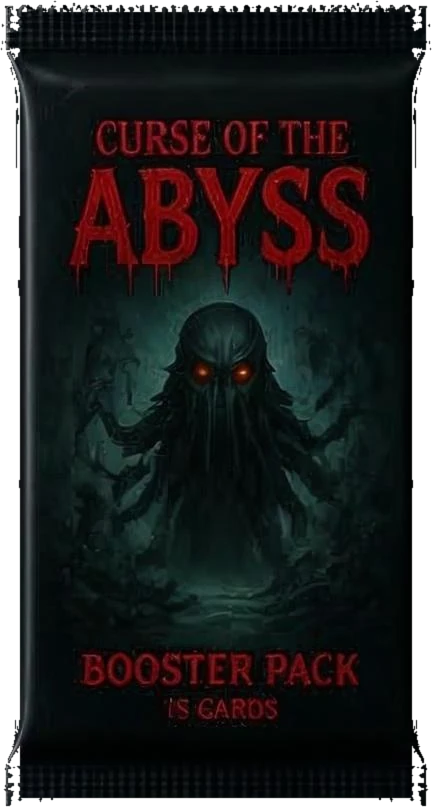
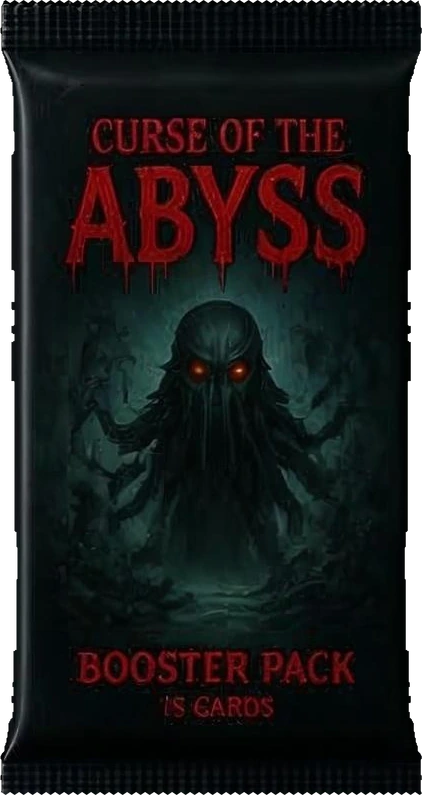
Booster pack art: precise cut-outs (measured edges mirrored across the pack axis, full crimped seals, anti-aliased mask)

diff --git a/src/data/patchNotes.ts b/src/data/patchNotes.ts
@@ -19,6 +19,21 @@ export interface PatchNote {
 
 export const PATCH_NOTES: PatchNote[] = [
   {
+    version: '0.15.1',
+    date: '2026-10-03',
+    title: 'Sharper booster packs',
+    summary: 'The booster pack artwork is cut out cleanly.',
+    sections: [
+      {
+        kind: 'fixed',
+        items: [
+          'Kingdoms at War, Fantasy Realms and Curse of the Abyss packs now have clean, straight edges and complete crimped seals at the top and bottom, without leftover dark background or ragged corners.',
+        ],
+      },
+    ],
+    commits: [],
+  },
+  {
     version: '0.15.0',
     date: '2026-10-03',
     title: 'Accounts and cloud save',

diff --git a/src/i18n/cs/data/patchNotes.ts b/src/i18n/cs/data/patchNotes.ts
@@ -1,6 +1,11 @@
 import type { PatchNotesOverlay } from '../../overlayTypes';
 
 const notes: PatchNotesOverlay = {
+  '0.15.1': {
+    title: 'Ostřejší balíčky',
+    summary: 'Obrázky balíčků jsou čistě vystřižené.',
+    sections: [['Balíčky Kingdoms at War, Fantasy Realms a Curse of the Abyss mají teď čisté rovné okraje a celé zalepené pruhy nahoře i dole, bez zbytků tmavého pozadí a roztřepených rohů.']],
+  },
   '0.15.0': {
     title: 'Účty a ukládání do účtu',
     summary: 'Přihlas se, ať se tvůj postup ukládá do účtu a můžeš pokračovat na jakémkoli zařízení.',
